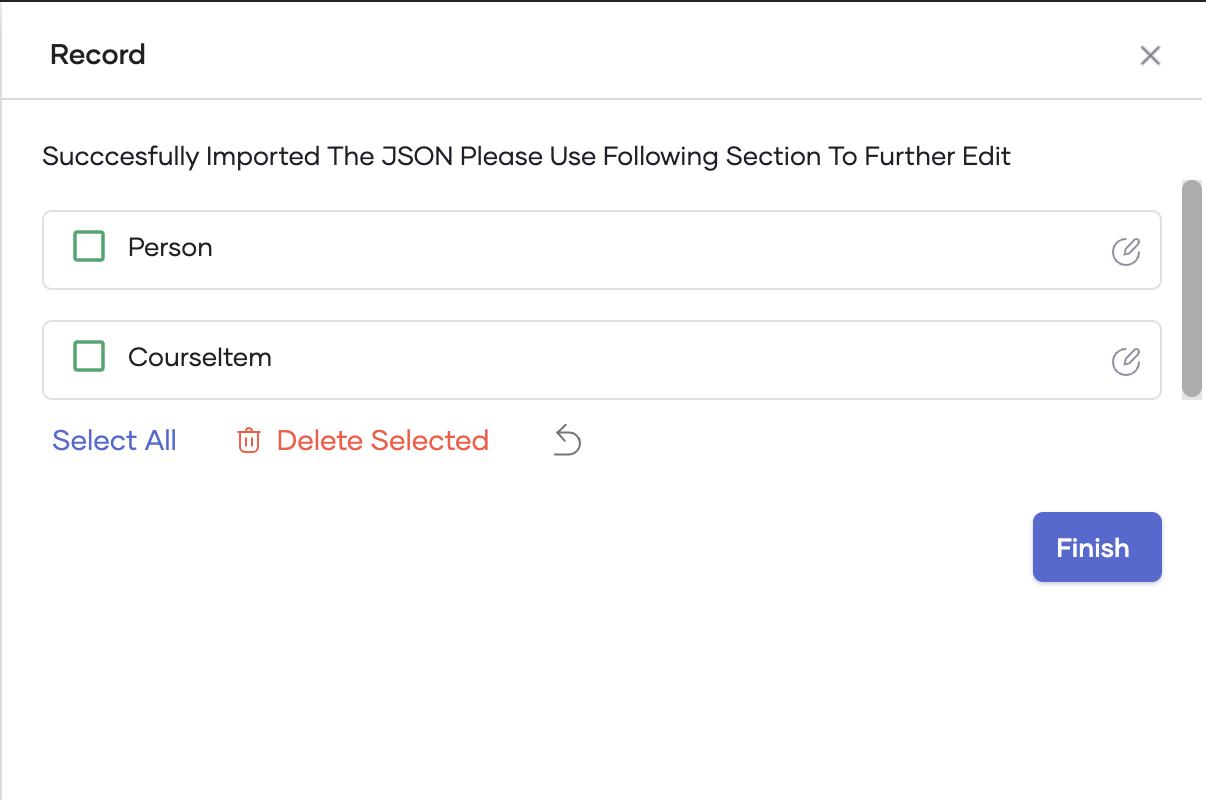
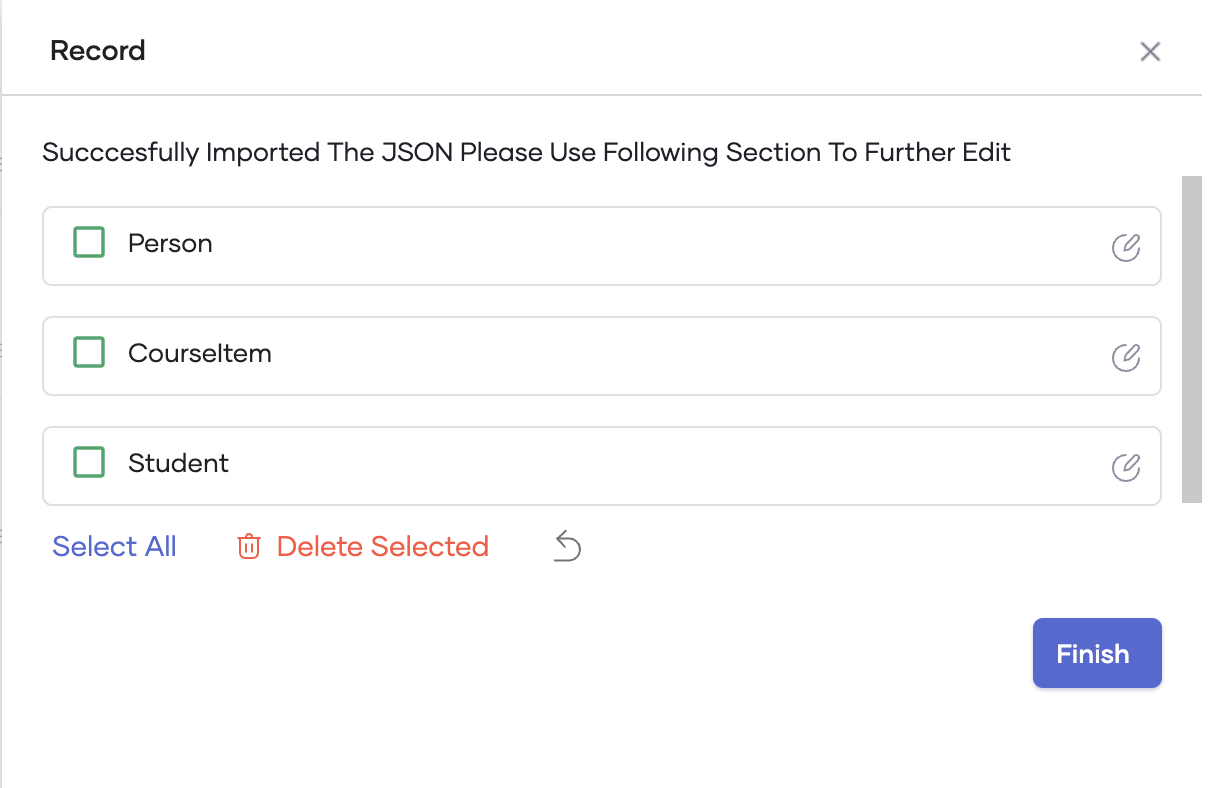
Fix review comments

diff --git a/docs/record-editor/readme.md b/docs/record-editor/readme.md
@@ -1,10 +1,10 @@
-# Editing records graphically with Ballerina
+# Edit records graphically with Ballerina
 
-Record is the type system introduced by the ballerina language to hold data by a user. Users can use records when they want to define their data schemas. Once the records are created users can easily manipulate data inside a user programme.
+Record is the type system introduced by the Ballerina language to hold data by a user. You can use records when you want to define data schemas. Once the records are created, you can easily manipulate data inside a program.
 
-Ballerina is a multi-paradigm language. You can define records in an imperative manner with Ballerina. On top of that, the Ballerina VS Code plugin comes with record editing capabilities, which will help users to edit records graphically.
+Ballerina is a multi-paradigm language. You can define records in an imperative manner with Ballerina. On top of that, the Ballerina VS Code plugin comes with record editing capabilities, which will help you to edit records graphically.
 
-In the record editor, users have the ability to create a record from scratch or create a record by importing a JSON.
+In the record editor, you have the ability to create a record from scratch or create a record by importing a JSON.
 
 ## Set up the prerequisites
 
@@ -18,39 +18,40 @@ In the record editor, users have the ability to create a record from scratch or 
 
 3. Open the created package in VS Code.
 
-### Create a record from scratch
+## Create records from scratch
 
-1. Navigate to the record editor please select **Create New** option.
+1. Navigate to the record editor and select **Create New**.
 
-![Create new record](images/create-new.gif "Create new record via record editor")
+    ![Create new record](images/create-new.gif "Create new record via record editor")
 
-2. In order to provide a record name, Please double-click on the default record name.
+2. Double click the default record name to change it.
 
-![Change record name](images/change-record-name.png "Change record name via record editor")
+    ![Change record name](images/change-record-name.png "Change record name via record editor")
 
-3. Use the plus button at the end to add new fields to the record.
->**Info:** Use the expressions tab in the record editor to create nested records by selecting the particular record expression.
+3. Click the plus button at the end of the field to add new fields to the record.
+>**Info:** Use the **Expressions** tab in the record editor to create nested records by selecting the particular record expression.
 
-![Add fields](images/add-fields.gif "Add fields to a record")
+    ![Add fields](images/add-fields.gif "Add fields to a record")
 
-4. In order to add default values please select the semicolon(;) of a field and select the default value expression.
+4. Select the semicolon(;) of a field and select the default value expression to add default values.
 
-![Add default value](images/default-value.gif "Add default value to a field")
+    ![Add default value](images/default-value.gif "Add default value to a field")
 
-5. Users have the ability switch between open and closed records as shown below.
+5. Select/Deselect the **isClosed** option to switch between the open and closed records.
 
-![Open Close](images/open-close-switch.gif "Switch between Open and Closed records")
+    ![Open Close](images/open-close-switch.gif "Switch between Open and Closed records")
 
-6. Once the record field configuration is done, please click save.
+6. Once the record field configuration is done, click **Save**.
 
-![Save create new record](images/save-create-new.gif "Save the newly created record")
+    ![Save create new record](images/save-create-new.gif "Save the newly created record")
 
-### Create a record by importing a JSON
+## Create records by importing a JSON
 
-#### Prerequisites
-* Create a file with the data below in JSON format.
+The Ballerina language provides an option to convert JSON files into record definitions. Follow the steps below to create a record from a JSON.
 
-    >**Info:** The example below converts a `person` and a list of `courses` to a `student` record. 
+1. Create a file with the data below in JSON format.
+
+    >**Info:** The example below converts a `person` and a list of `courses` to a `Student` record. 
 
     ```json
     {
@@ -80,18 +81,16 @@ In the record editor, users have the ability to create a record from scratch or 
     }
     ```
 
-In ballerina language, it provides an option for users to bring their JSONs and easily convert those JSONs into record definitions. Please use the following steps to create a record from a JSON.
+2. In the record editor, select the **Import A JSON** option.
 
-1. Once you navigate to the record editor please select **Import A JSON** option.
+3. Provide a name for the record.
 
-2. Then provide a name for the record.
+4. Provide the sample JSON by either typing on the text area or by choosing the file created from the file selector.
 
-3. Then provide the sample JSON by either typing on the text area or by choosing the file created from the file selector.
+5. Select **Make Separate Record Definitions** to create separate Ballerina record definitions.
 
-4. In order to make separate ballerina record definitions please check **Make Separate Record Definitions**.
+    ![Import a JSON](images/import-JSON.gif "Import a JSON from record editor and covert to a record")
 
-![Import a JSON](images/import-JSON.gif "Import a JSON from record editor and covert to a record")
+6. Use the preview of the created record to edit the created records further, and click **Finish** once editing is complete.
 
-5. Then use the preview of the created record to further edit the created records and click save once editing is complete.
-
-![Preview created records](images/preview.png "Preview the created records")
+    ![Preview created records](images/preview.png "Preview the created records")
